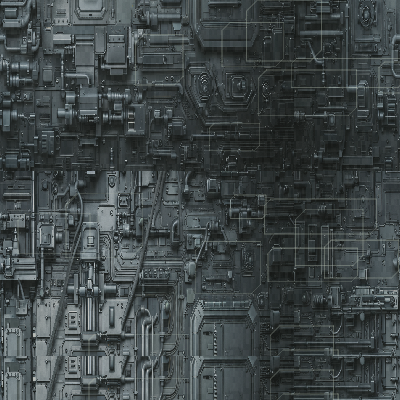
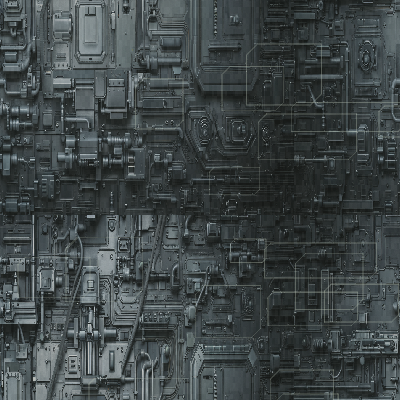
Trim unused bitmap side skins

diff --git a/dev.html b/dev.html
@@ -4,7 +4,7 @@
   <meta charset="utf-8">
   <meta name="viewport" content="width=device-width, initial-scale=1">
   <title>Ultra Elite - Browser Experiment</title>
-  <link rel="stylesheet" href="src/game.css?v=mrkfqja6">
+  <link rel="stylesheet" href="src/game.css?v=mrkgl65q">
 </head>
 <body>
   <div class="desktop-only-message" role="status" aria-live="polite">
@@ -200,8 +200,8 @@
     </div>
   </div>
 
-  <script src="src/generated/model-library.js?v=mrkfqja6"></script>
-  <script src="src/generated/bitmap-skins.js?v=mrkfqja6"></script>
-  <script src="src/main.js?v=mrkfqja6"></script>
+  <script src="src/generated/model-library.js?v=mrkgl65q"></script>
+  <script src="src/generated/bitmap-skins.js?v=mrkgl65q"></script>
+  <script src="src/main.js?v=mrkgl65q"></script>
 </body>
 </html>